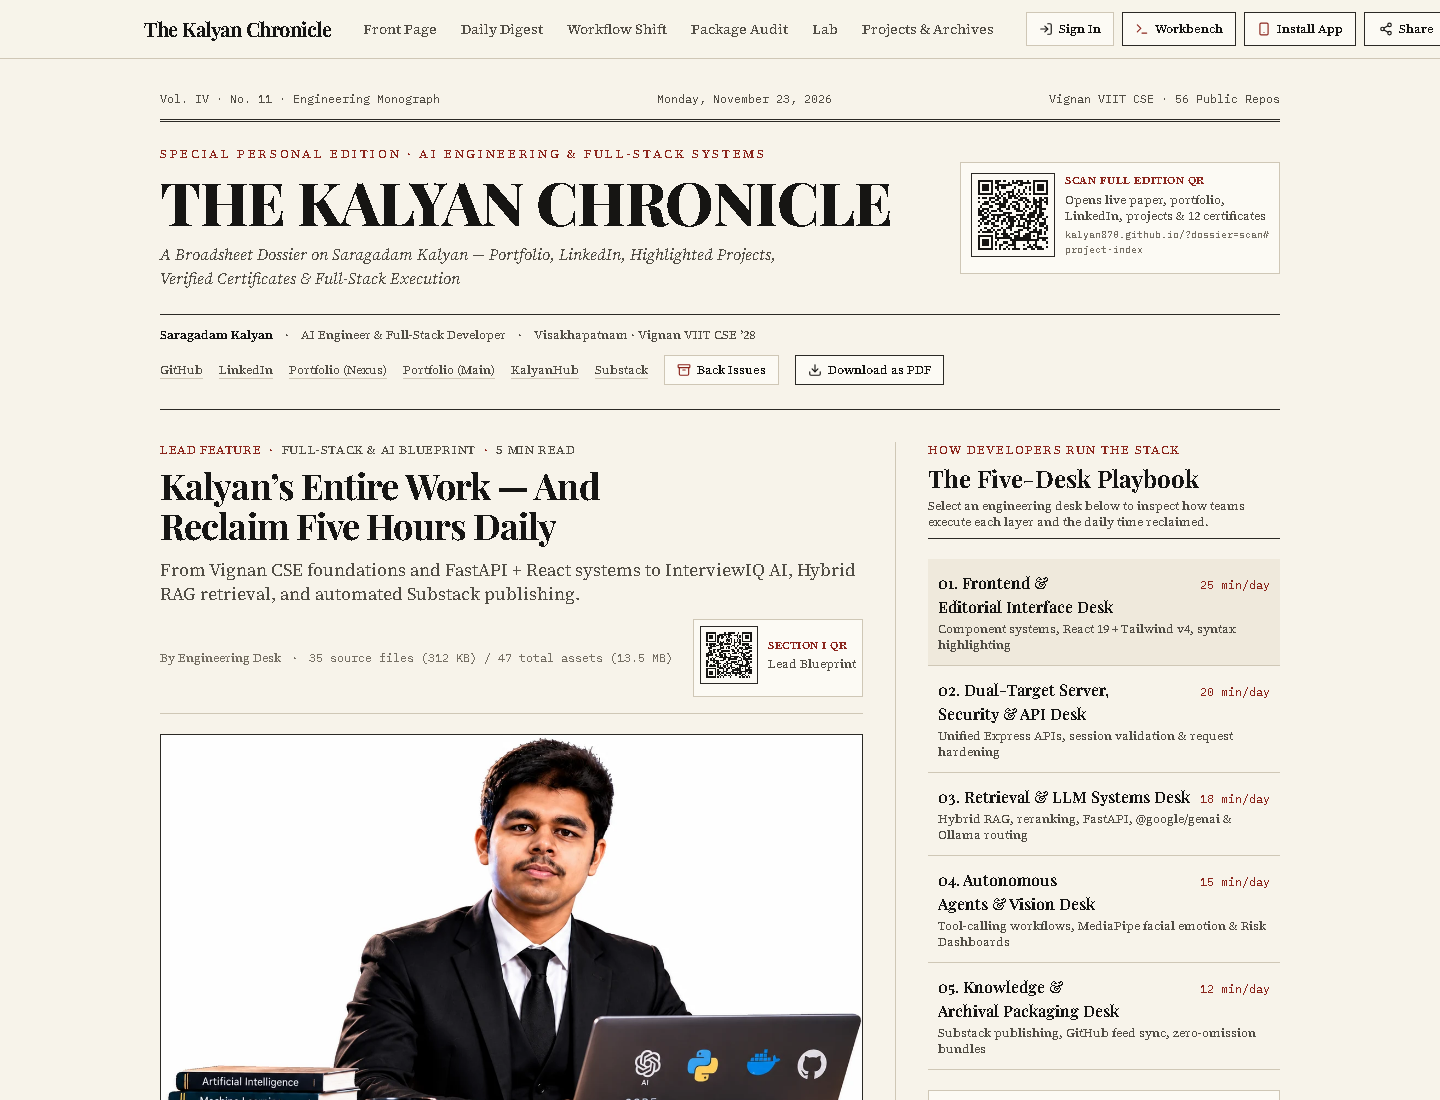
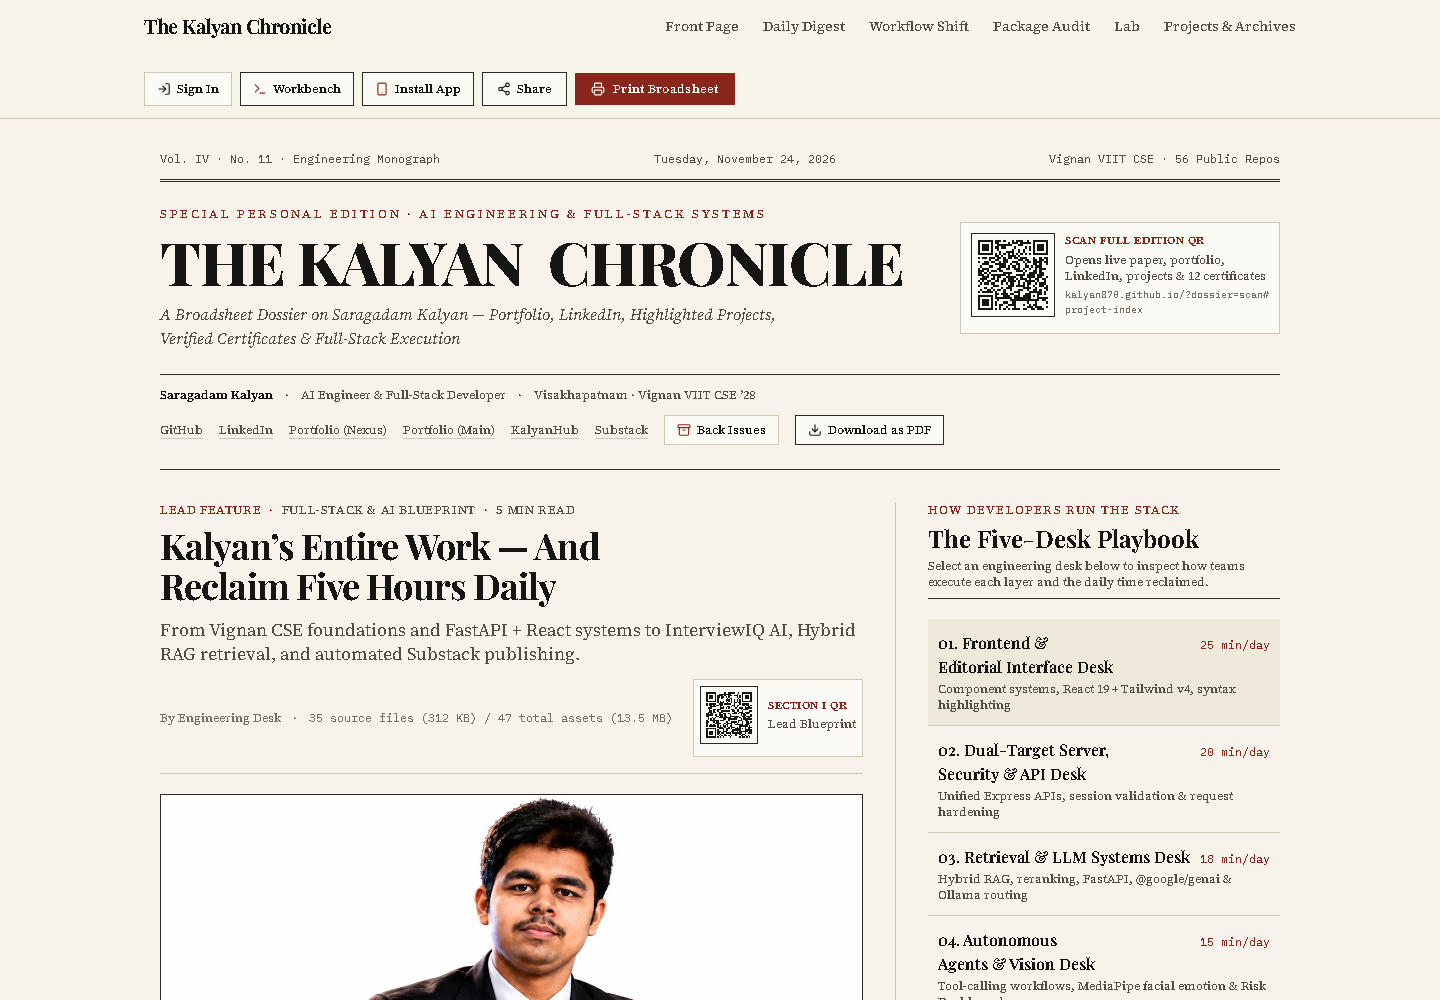
Document verified portfolio editions and deployments

diff --git a/README.md b/README.md
@@ -6,13 +6,20 @@ An interactive engineering broadsheet for Saragadam Kalyan: project profiles, ar
 
 - **GitHub Pages (verified):** [kalyan870.github.io/the-kalyan-chronicle](https://kalyan870.github.io/the-kalyan-chronicle/)
 - **Vercel (verified):** [kalyan-chronicle.vercel.app](https://kalyan-chronicle.vercel.app/)
+- **Netlify (verified):** [the-kalyan-chronicle.netlify.app](https://the-kalyan-chronicle.netlify.app/)
 - **Repository:** [github.com/kalyan870/the-kalyan-chronicle](https://github.com/kalyan870/the-kalyan-chronicle)
 
-The GitHub Pages site is the verified static edition. Vercel serves the app URL; server features depend on the environment variables described below. Cloudflare Pages, Netlify, and Deno Deploy are documented adapters/targets, but no live production URL is currently recorded for them.
+GitHub Pages serves the static edition. Vercel and Netlify have server adapters for API routes; server features depend on each host's environment variables.
 
 ### Live screenshot
 
 ![The Kalyan Chronicle live desktop edition](docs/screenshots/chronicle-home.png)
+
+### Portfolio editions
+
+| V1 — side-by-side | V2 — full-screen |
+| --- | --- |
+| [Open V1](https://kalyannexus.vercel.app/) · ![V1 screenshot](docs/screenshots/portfolio-v1.webp) | [Open V2](https://kalyanportfolio-five.vercel.app/) · ![V2 screenshot](docs/screenshots/portfolio-v2.webp) |
 
 ## Stack
 
@@ -100,16 +107,15 @@ bun run build
 
 | Provider | URL | Verification |
 | --- | --- | --- |
-| GitHub Pages | [https://kalyan870.github.io/the-kalyan-chronicle/](https://kalyan870.github.io/the-kalyan-chronicle/) | HTTP 200; Pages workflow succeeded for the current published revision. |
-| Vercel | [https://kalyan-chronicle.vercel.app/](https://kalyan-chronicle.vercel.app/) | HTTP 200 on 2026-11-23. |
+| GitHub Pages | [https://kalyan870.github.io/the-kalyan-chronicle/](https://kalyan870.github.io/the-kalyan-chronicle/) | HTTP 200; publish workflow passed for `77577b2`. |
+| Vercel | [https://kalyan-chronicle.vercel.app/](https://kalyan-chronicle.vercel.app/) | HTTP 200 on 2026-11-24. |
+| Netlify | [https://the-kalyan-chronicle.netlify.app/](https://the-kalyan-chronicle.netlify.app/) | HTTP 200 on 2026-11-24. |
 
 ### Other deployment targets
 
 | Host | Deployment shape | Notes |
 | --- | --- | --- |
-| Netlify | Vite frontend and Express API through `netlify/functions/api.ts` | Adapter and `netlify.toml` are present; no live site URL has been verified. |
-| Cloudflare Pages | Static frontend with Pages middleware and R2 configuration | Workflow is opt-in; requires `CLOUDFLARE_API_TOKEN`, `CLOUDFLARE_ACCOUNT_ID`, and `CLOUDFLARE_PAGES_PROJECT`. No live Pages URL has been verified. Pages does not run this Express server, so API routes need a compatible API origin. |
-| Deno Deploy | Dynamic Express server (`server.ts`) or static frontend | Workflow requires provider credentials and app selection; no live URL has been verified. Deno has announced the service sunset for April 2027. |
+| Cloudflare Pages | Static frontend | Opt-in workflow requires `CLOUDFLARE_API_TOKEN`, `CLOUDFLARE_ACCOUNT_ID`, and the `CLOUDFLARE_PAGES_PROJECT` repository variable. No live Pages URL is configured. Pages does not run this Express server, so API routes need a compatible API origin. |
 | GitHub Pages | Static Vite/PWA frontend | Live link above; server API features need an external API deployment. |
 
 Provider workflows require secrets before they can publish. A workflow/build passing alone is not treated as a live deployment; the provider URL must respond.
